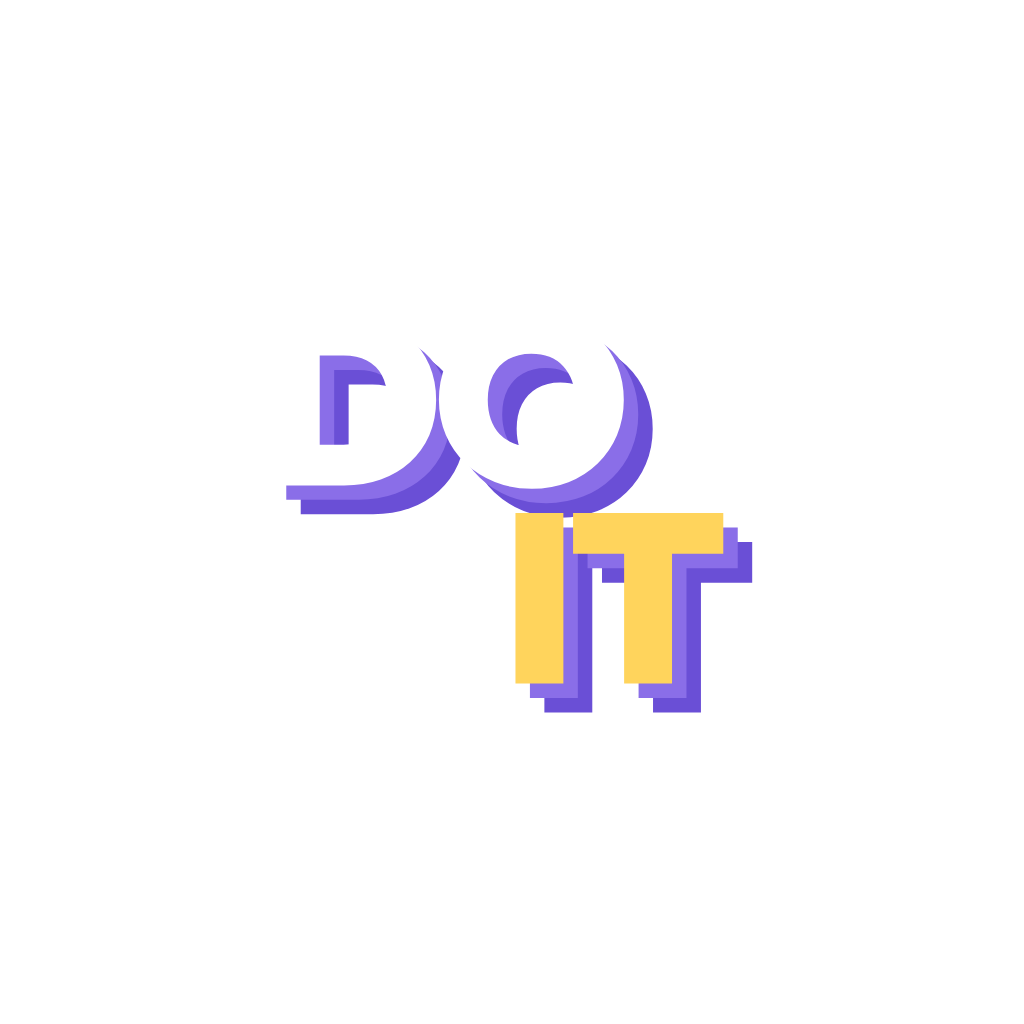
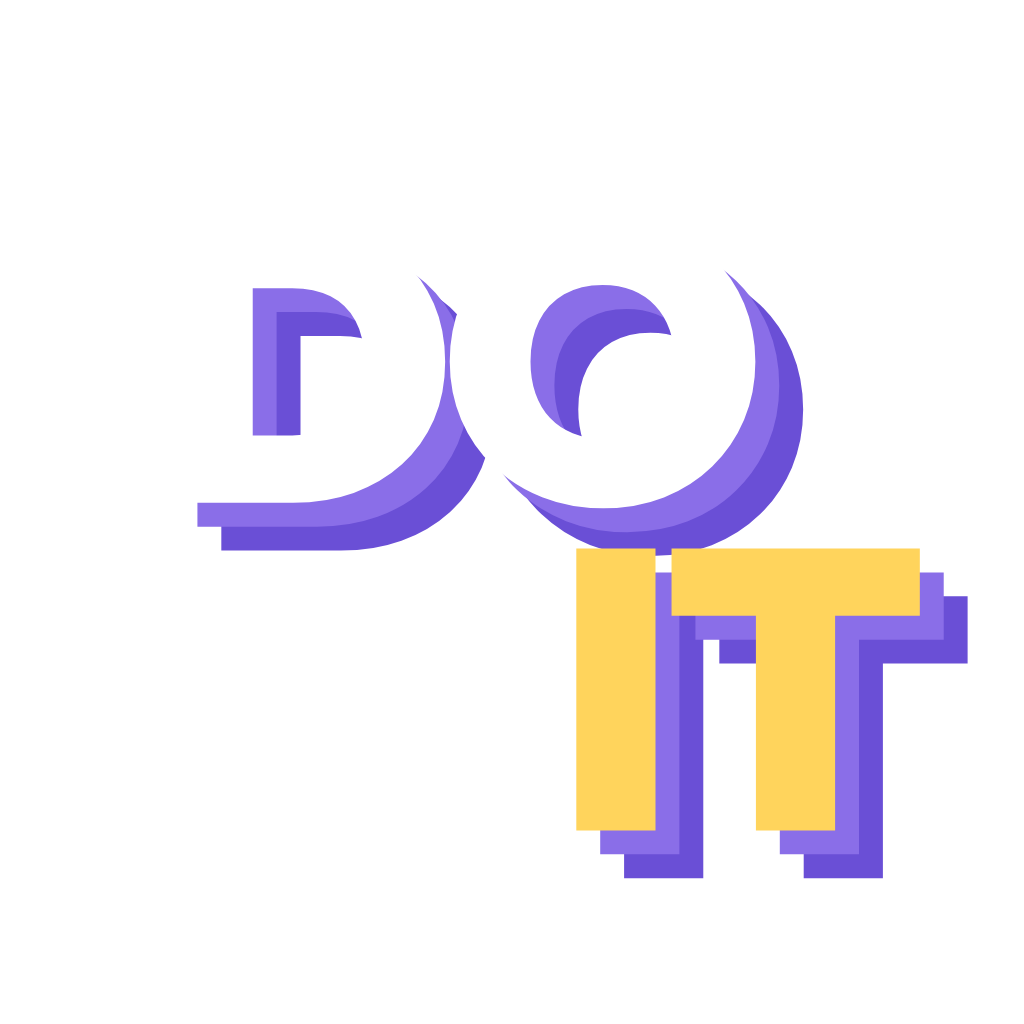
아이콘: Android도 확정 그림 그대로(W 11-28 23:58) — 적응형 앞 판의 보이는 창(72/108) = 확정본, 틀 안에 넣은 판 폐기 · resources/store/play_icon_512.png
Claude-Session: https://claude.ai/code/session_01NmTv1g1MG3bcNDVU8AwyuM

Changed region(s): [[0.1875, 0.2812, 0.9688, 0.875], [0.2188, 0.2812, 0.375, 0.4375]]

diff --git a/tools/make_icons.py b/tools/make_icons.py
@@ -1,6 +1,6 @@
 #!/usr/bin/env python3
 """앱 아이콘(확정본 '세 겹' DO/IT 라일락, W 11-23) → Android 런처 아이콘 세트. 5번방 #167
- 입력: resources/icon_fg-1024.png (투명 바탕, 글자 묶음이 적응형 안전 구역 66/108 안에 들어가게 놓임)
+ 입력: resources/icon_fg-1024.png (투명 바탕. 가운데 72/108 창이 확정 그림과 똑같게 놓임 — W 11-28 23:58 '확정한 그림대로')
  출력(<res> 아래): mipmap-*/ic_launcher_foreground.png · ic_launcher.png · ic_launcher_round.png,
                   mipmap-anydpi-v26/ic_launcher(.xml·_round.xml), values/cd_launcher_bg.xml
  iOS는 resources/AppIcon-1024.png 를 그대로 씀(ios.yml).  사용: python3 tools/make_icons.py android/app/src/main/res
